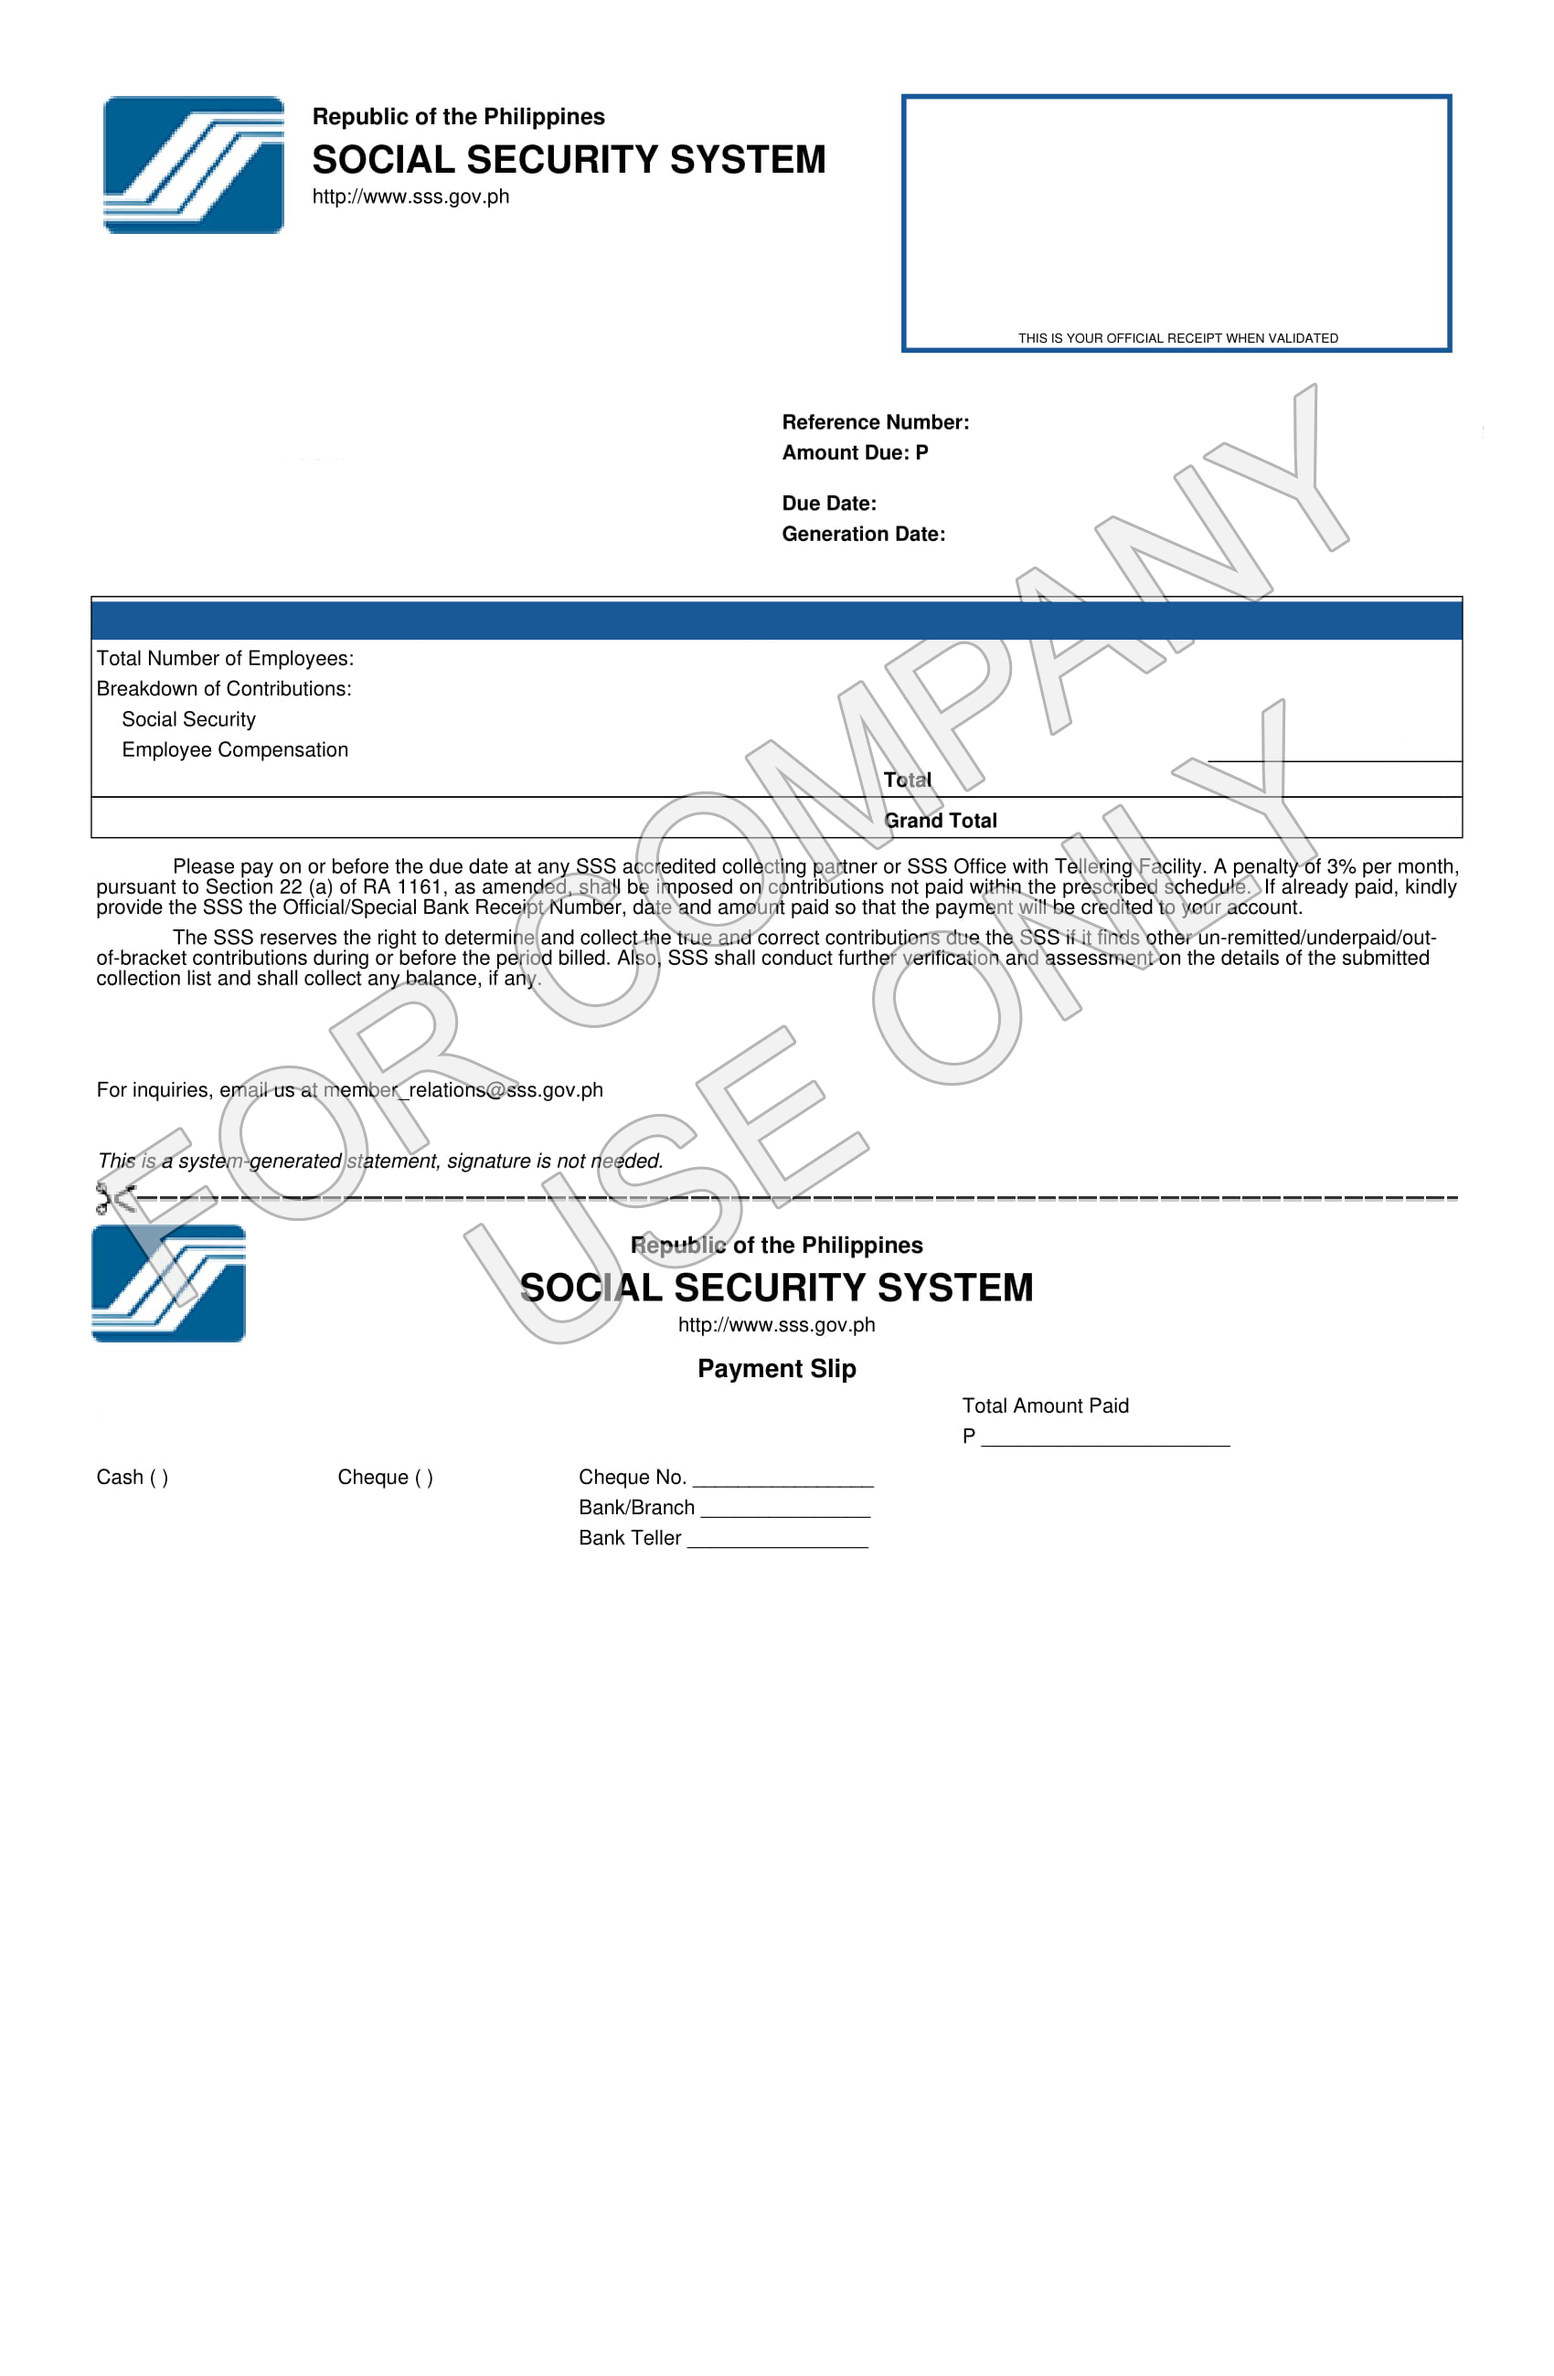
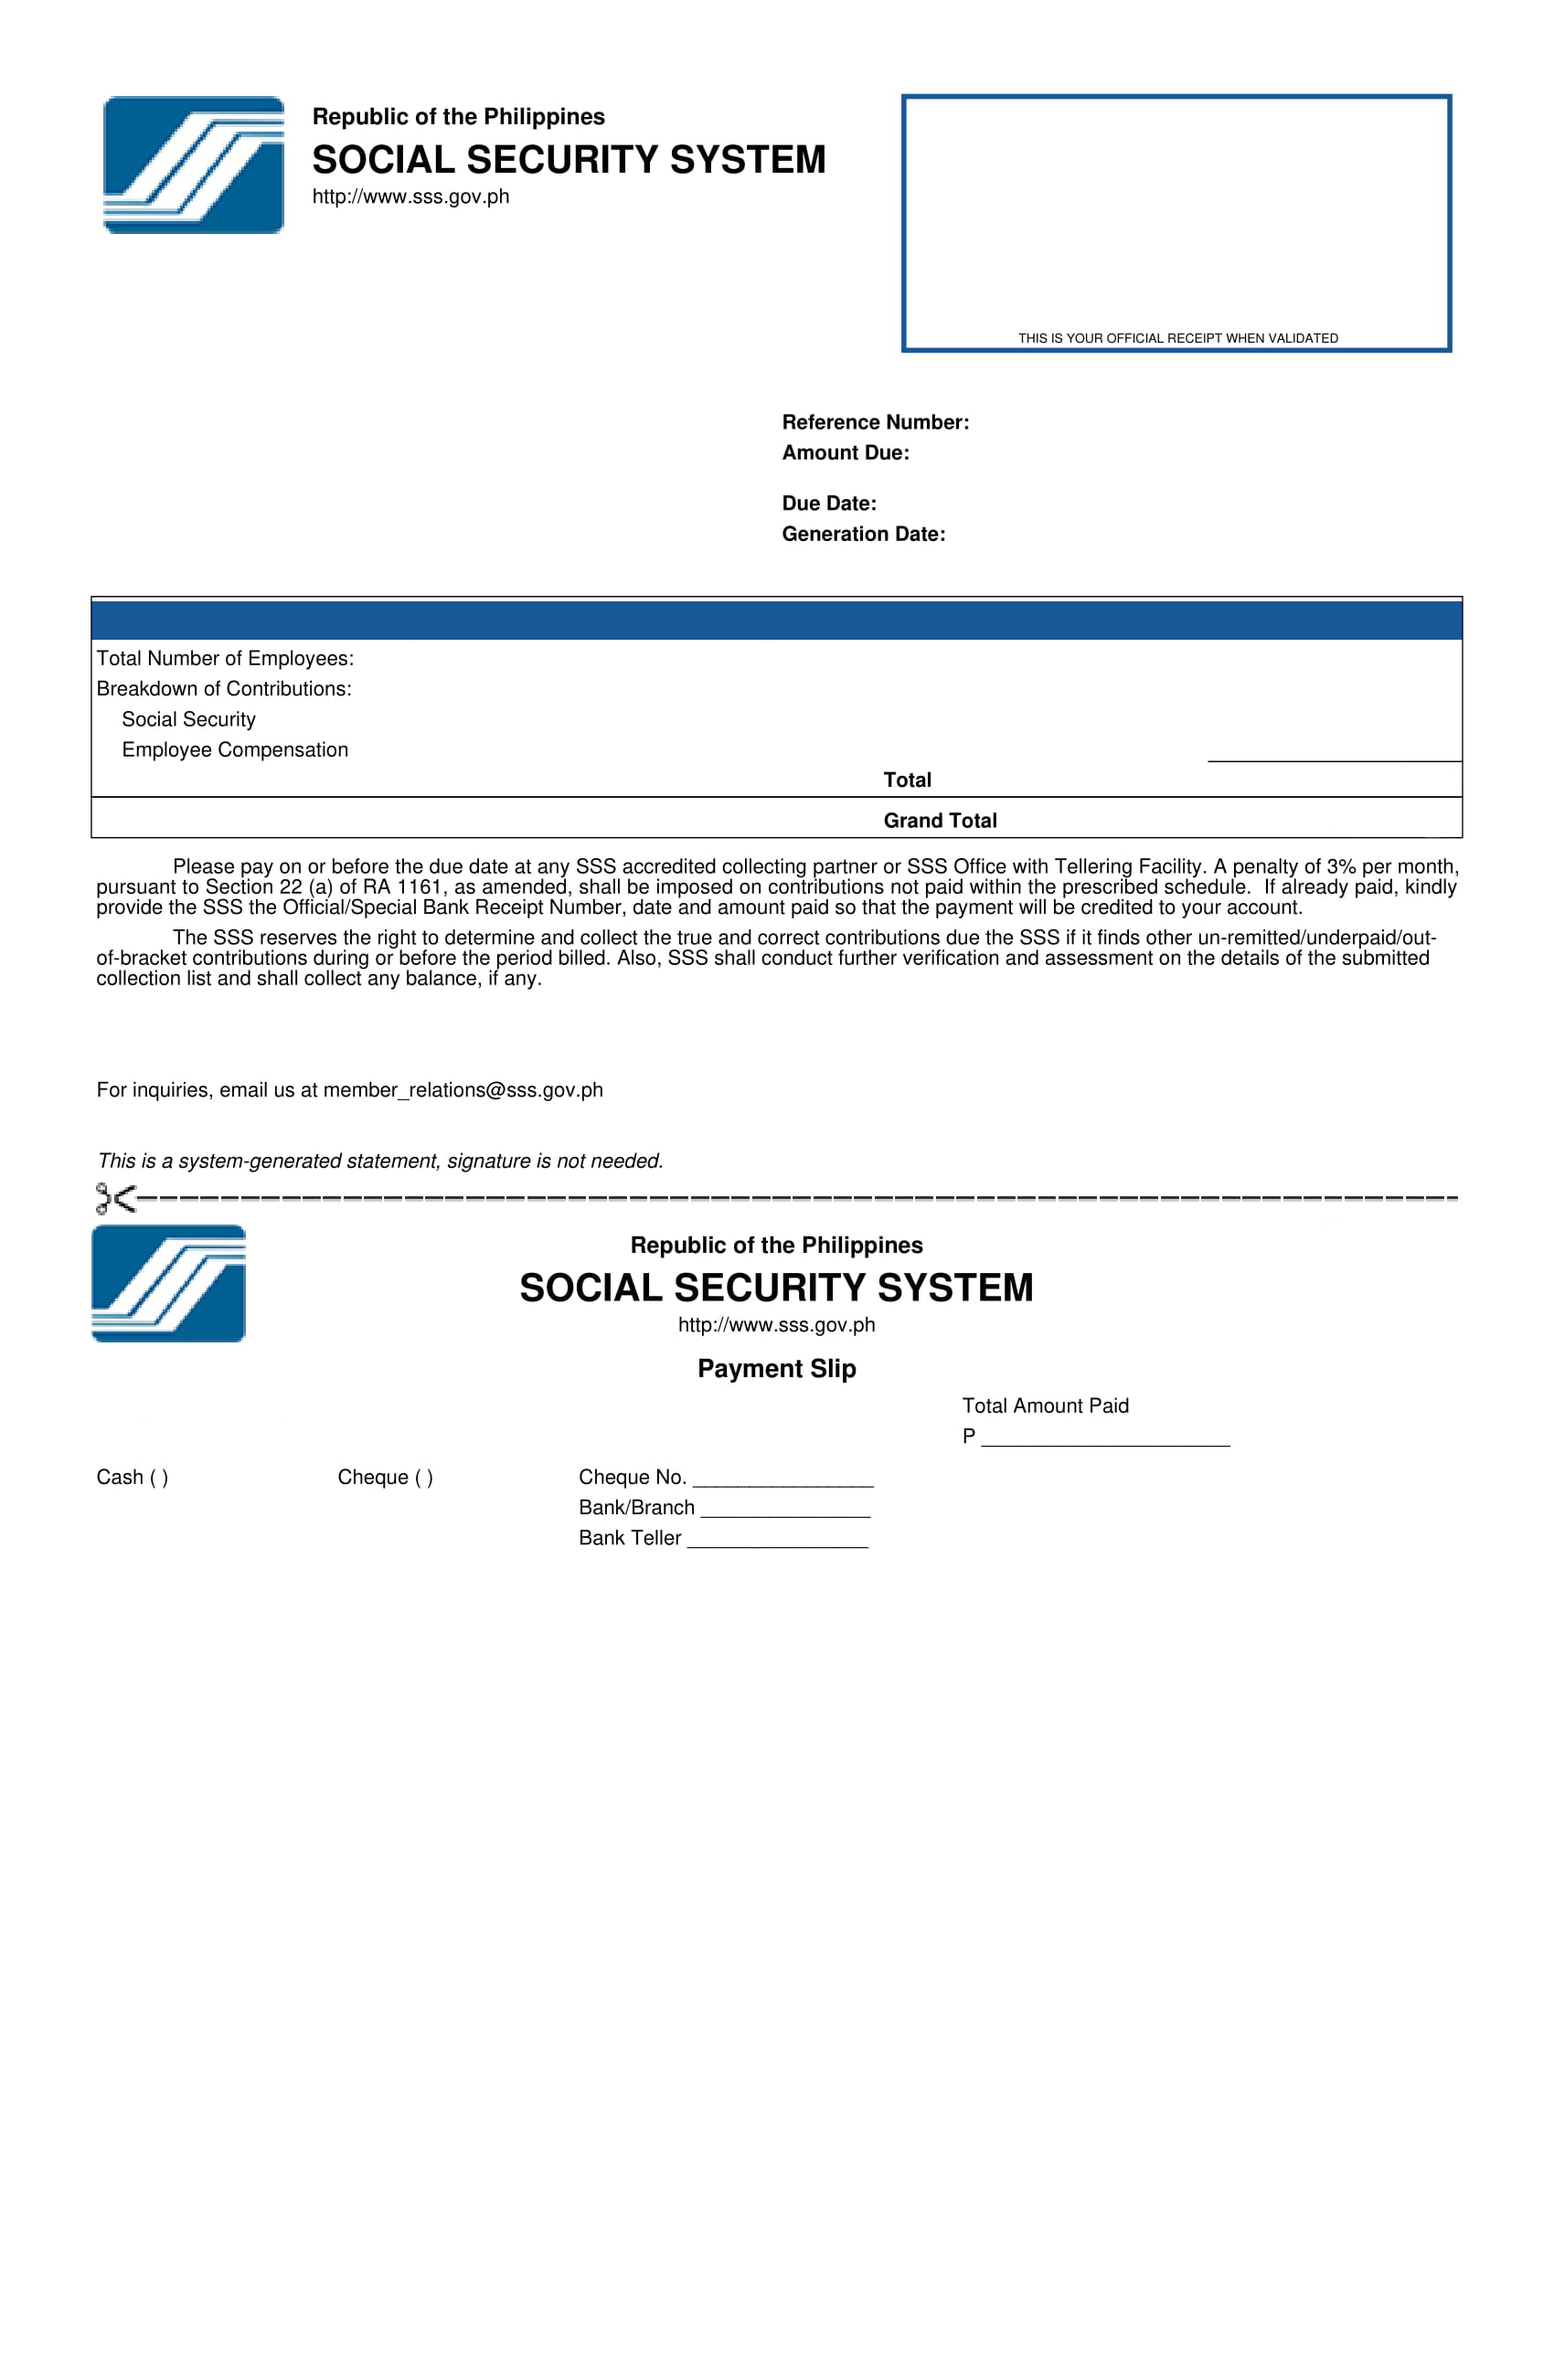
sss edit layout

diff --git a/assets/css/sss-style.css b/assets/css/sss-style.css
@@ -106,7 +106,7 @@
     background-color: transparent;
     text-align: justify;
     margin-top: 200px;
-    margin-left: 462px;
+    margin-left: 455px;
     width: 122px;
     height: 14px;
     font-size: 11px;
@@ -502,7 +502,7 @@
     background-color: transparent;
     text-align: justify;
     margin-top: 174px;
-    margin-left: 451px;
+    margin-left: 445px;
     width: 122px;
     height: 14px;
     font-size: 11px;

diff --git a/application/views/app/content/page-sss-contri.php b/application/views/app/content/page-sss-contri.php
@@ -50,25 +50,25 @@
 		<div class="panel-body form-body">
 			<div class="form-sss"></div>
 			<div class="test-relative">
-				<input type="text" class="employerName" /><br/>
-				<input type="text" class="employerAddress" />
-				<input type="text" class="amountDue" /><br/>
-				<input type="text" class="employerZip" /> 
-				<input type="text" class="dueDate" /><br/>
-				<input type="text" class="employerId" /> 
-				<input type="text" class="generationDate" /><br/>
+				<input type="text" class="employerName typing-sss" /><br/>
+				<input type="text" class="employerAddress typing-sss" />
+				<input type="text" class="amountDue typing-sss" /><br/>
+				<input type="text" class="employerZip typing-sss" /> 
+				<input type="text" class="dueDate typing-sss" /><br/>
+				<input type="text" class="employerId typing-sss" /> 
+				<input type="text" class="generationDate typing-sss" /><br/>
 
 				<!-- <input type="text" class="listSummary" /> -->
-				<input type="text" class="listSummary" /><br/>
-				<input type="text" class="totalEmployees" /><br/>
-				<input type="text" class="socialSecurity" /><br/>
-				<input type="text" class="employeeCompensation" /><br/>
-				<input type="text" class="total" /><br/>
-				<input type="text" class="grandTotal" /><br/>
+				<input type="text" class="listSummary typing-sss" /><br/>
+				<input type="text" class="totalEmployees typing-sss" /><br/>
+				<input type="text" class="socialSecurity typing-sss" /><br/>
+				<input type="text" class="employeeCompensation typing-sss" /><br/>
+				<input type="text" class="total typing-sss" /><br/>
+				<input type="text" class="grandTotal typing-sss" /><br/>
 
-				<input type="text" class="employerName bankCopyName" /><br/>
-				<input type="text" class="employerId bankCopyEmployerId"/> 
-				<input type="text" class="bankCopySummaryMonth"/> 
+				<input type="text" class="employerName bankCopyName typing-sss" /><br/>
+				<input type="text" class="employerId bankCopyEmployerId typing-sss"/> 
+				<input type="text" class="bankCopySummaryMonth typing-sss"/> 
 				<!-- <input type="text" class="employerAddress" /><br/>
 				<input type="text" class="employerZip" /><br/>
 				-->
@@ -100,24 +100,24 @@
 				</div>
 
 				<div class="sss-form-content">
-					<input type="text" class="employerName" /><br/>
-					<input type="text" class="employerAddress" />
-					<input type="text" class="amountDue" /><br/>
-					<input type="text" class="employerZip" /> 
-					<input type="text" class="dueDate" /><br/>
-					<input type="text" class="employerId" /> 
-					<input type="text" class="generationDate" /><br/>
+					<input type="text" class="employerName typing-sss" /><br/>
+					<input type="text" class="employerAddress typing-sss" />
+					<input type="text" class="amountDue typing-sss" /><br/>
+					<input type="text" class="employerZip typing-sss" /> 
+					<input type="text" class="dueDate typing-sss" /><br/>
+					<input type="text" class="employerId typing-sss" /> 
+					<input type="text" class="generationDate typing-sss" /><br/>
 
-					<input type="text" class="listSummary" />
-					<input type="text" class="totalEmployees" />
-					<input type="text" class="socialSecurity" />
-					<input type="text" class="employeeCompensation" />
-					<input type="text" class="total" />
-					<input type="text" class="grandTotal" />
+					<input type="text" class="listSummary typing-sss" />
+					<input type="text" class="totalEmployees typing-sss" />
+					<input type="text" class="socialSecurity typing-sss" />
+					<input type="text" class="employeeCompensation typing-sss" />
+					<input type="text" class="total typing-sss" />
+					<input type="text" class="grandTotal typing-sss" />
 
-					<input type="text" class="employerName bankCopyName" /><br/>
-					<input type="text" class="employerId bankCopyEmployerId"/> 
-					<input type="text" class="bankCopySummaryMonth"/> 
+					<input type="text" class="employerName bankCopyName typing-sss" /><br/>
+					<input type="text" class="employerId bankCopyEmployerId typing-sss"/> 
+					<input type="text" class="bankCopySummaryMonth typing-sss"/> 
 				</div>
 
 			</div>
@@ -159,6 +159,17 @@
 		pageSSSContri.pageInt = 0;
 		pageSSSContri.inputCount = 0;
 		pageSSSContri.page = 0;
+
+		pageSSSContri.elem.find('.typing-sss').keydown(function(e){
+			if(e.which == 9){
+				return true;
+			}else{
+				return false;
+			}
+		});
+		pageSSSContri.elem.find('.typing-sss').on("contextmenu",function(){
+	       return false;
+	    }); 
 
 		pageSSSContri.elem.find('.form-sss-second').hide();
 		pageSSSContri.elem.find('.test-relative-second').hide();
@@ -364,7 +375,7 @@
 			});
 			pageSSSContri.totalSSContri = pageSSSContri.ssContribution + pageSSSContri.ecContribution;
 
-			pageSSSContri.elem.find('.amountDue').val(pageSSSContri.totalSSContri + ".00");
+			pageSSSContri.elem.find('.amountDue').val("P " + pageSSSContri.totalSSContri + ".00");
 			pageSSSContri.elem.find('.grandTotal').val("Php " + pageSSSContri.totalSSContri + ".00");
 			pageSSSContri.elem.find('.total').val(pageSSSContri.totalSSContri + ".00");
 			pageSSSContri.elem.find('.employeeCompensation').val(pageSSSContri.ecContribution + ".00");
